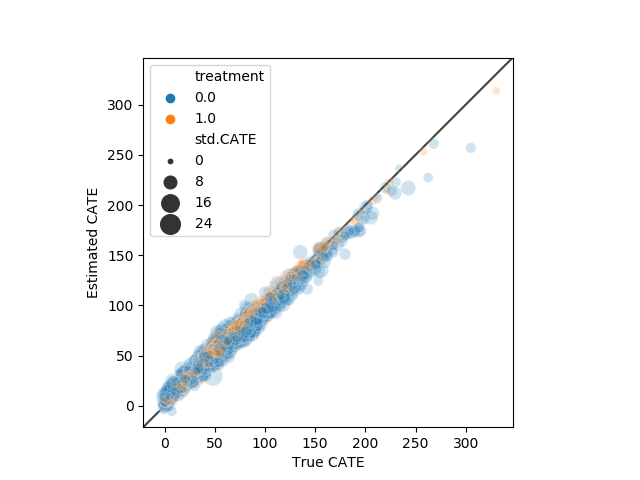
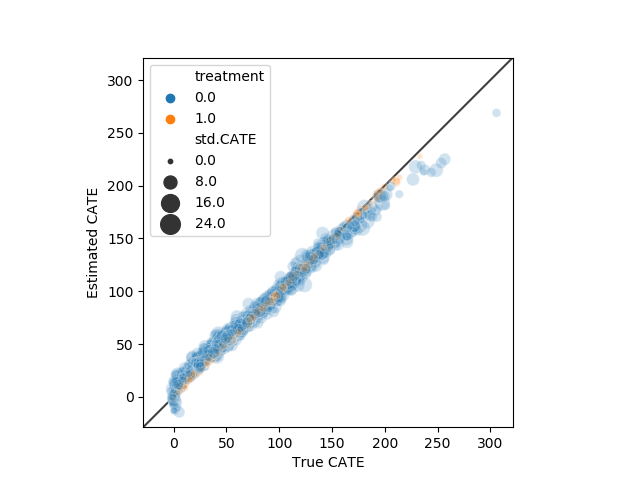
malts vs malts_mf

diff --git a/Experminents/experiment_endogenous_continuous_multifold.py b/Experminents/experiment_endogenous_continuous_multifold.py
@@ -18,10 +18,10 @@ warnings.filterwarnings("ignore")
  
 np.random.seed(0)
 
-numExample = 500
+numExample = 1000
 num_cov_dense = 10
 num_covs_unimportant = 25
-n_est = 1500
+n_est = 2500
 num_covariates = num_cov_dense+num_covs_unimportant
 
 df_train, df_true_train = dg.data_generation_dense_endo(numExample, num_cov_dense, num_covs_unimportant,rho=0)
